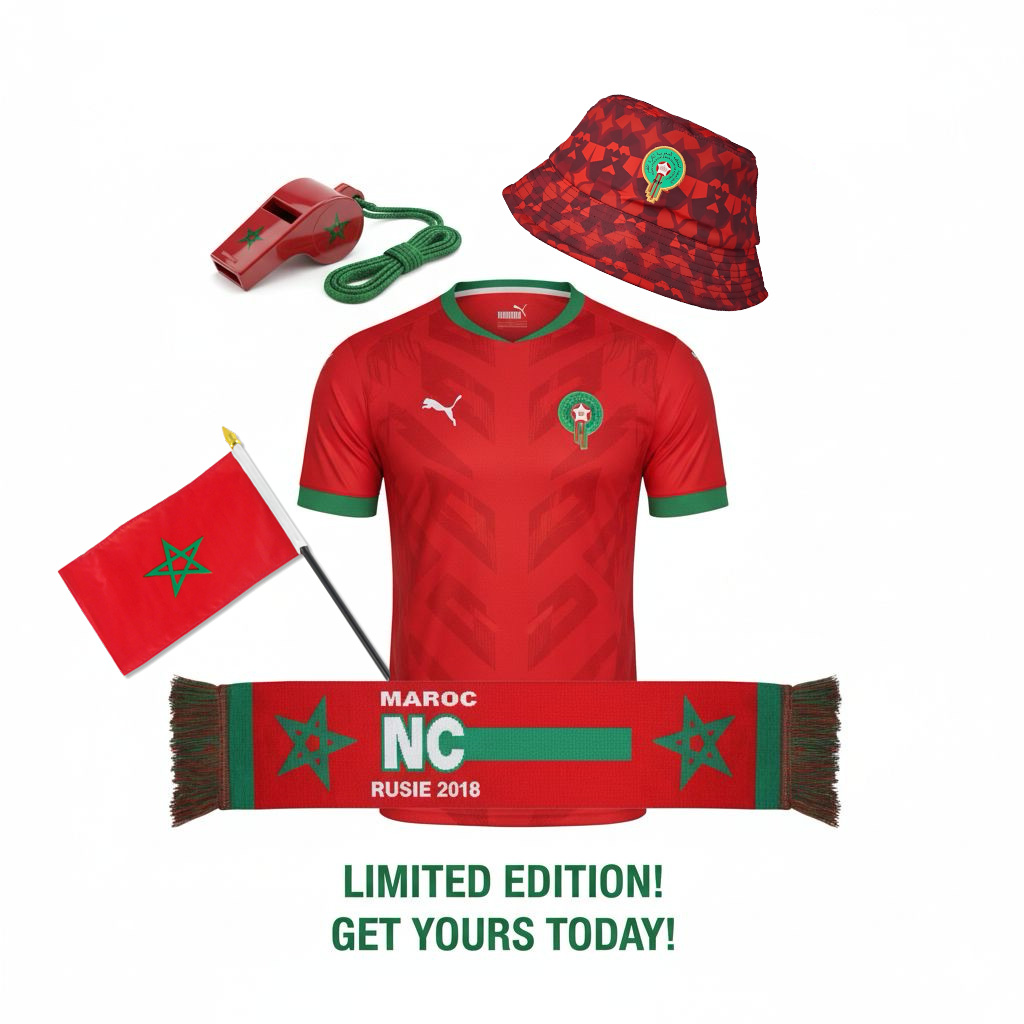
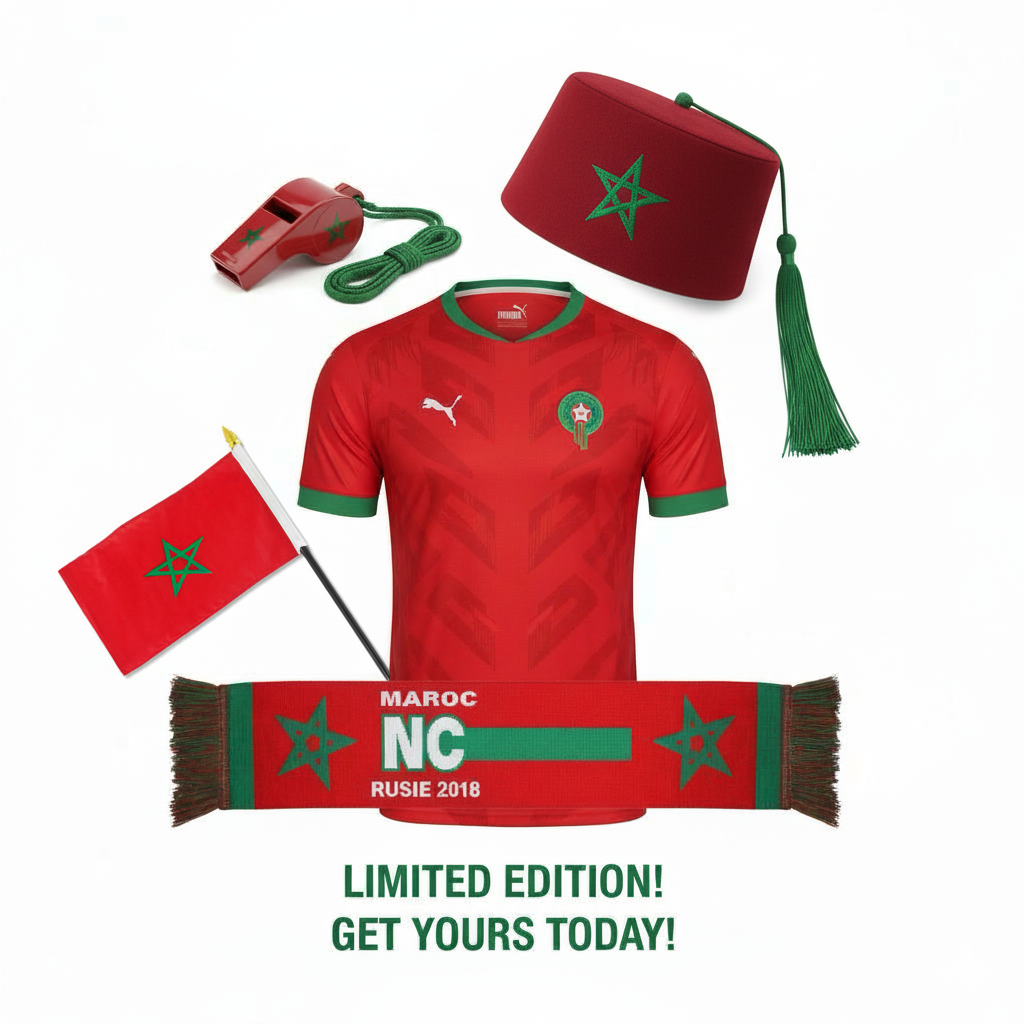
last fucking version

diff --git a/index.html b/index.html
@@ -7,7 +7,7 @@
     <meta name="description" content="Boutique officielle CAN 2025 Maroc. Maillots personnalisés, accessoires premium aux couleurs des Atlas Lions. Livraison rapide partout au Maroc." />
     <meta name="keywords" content="CAN 2025, Maroc, maillot football, supporter, personnalisation, Atlas Lions, LIONS D'ATLAS, boutique en ligne Maroc" />
     <meta name="author" content="Atlas Lions Apparel" />
-    <link rel="canonical" href="https://yael-aro.github.io/atlas-lions-apparel/" />
+    <link rel="canonical" href="https://atlasllions.com/" />
     
     <!-- Favicon -->
     <link rel="icon" type="image/x-icon" href="/favicon.ico" />
@@ -17,19 +17,29 @@
     <link rel="preconnect" href="https://fonts.gstatic.com" crossorigin>
     <link href="https://fonts.googleapis.com/css2?family=Montserrat:wght@400;500;600;700;800&family=Amiri:wght@400;700&family=Bebas+Neue&family=Oswald:wght@700&family=Roboto:wght@900&family=Permanent+Marker&family=Cairo:wght@700&family=Inter:wght@400;600&family=Lora:wght@400;700&family=Open+Sans:wght@400;600&family=Raleway:wght@400;700&family=Poppins:wght@400;600&display=swap" rel="stylesheet">
 
-    <!-- Open Graph / Facebook -->
+    <!-- Open Graph / Facebook / WhatsApp -->
     <meta property="og:type" content="website" />
-    <meta property="og:url" content="https://yael-aro.github.io/atlas-lions-apparel/" />
-    <meta property="og:title" content="Boutique CAN 2025 Maroc | Maillots Premium Atlas Lions" />
-    <meta property="og:description" content="Boutique officielle CAN 2025 Maroc. Maillots personnalisés, accessoires premium aux couleurs des Atlas Lions." />
-    <meta property="og:image" content="https://yael-aro.github.io/atlas-lions-apparel/src/assets/hero-can-2025.jpg" />
+    <meta property="og:url" content="https://atlasllions.com/" />
+    <meta property="og:site_name" content="Atlas Lions Apparel" />
+    <meta property="og:title" content="Boutique CAN 2025 Maroc 🇲🇦 | Maillots Premium Atlas Lions" />
+    <meta property="og:description" content="Boutique officielle CAN 2025 🏆 Maillots personnalisés • Accessoires premium • Livraison rapide partout au Maroc 🚚" />
+    <meta property="og:image" content="https://atlasllions.com/lienimage.jpg" />
+    <meta property="og:image:secure_url" content="https://atlasllions.com/lienimage.jpg" />
+    <meta property="og:image:width" content="1200" />
+    <meta property="og:image:height" content="630" />
+    <meta property="og:image:alt" content="Boutique CAN 2025 Maroc - Atlas Lions Apparel" />
+    <meta property="og:image:type" content="image/jpeg" />
+    <meta property="og:locale" content="fr_FR" />
 
     <!-- Twitter -->
     <meta name="twitter:card" content="summary_large_image" />
-    <meta name="twitter:url" content="https://yael-aro.github.io/atlas-lions-apparel/" />
-    <meta name="twitter:title" content="Boutique CAN 2025 Maroc | Maillots Premium Atlas Lions" />
-    <meta name="twitter:description" content="Boutique officielle CAN 2025 Maroc. Maillots personnalisés, accessoires premium." />
-    <meta name="twitter:image" content="https://yael-aro.github.io/atlas-lions-apparel/src/assets/hero-can-2025.jpg" />
+    <meta name="twitter:url" content="https://atlasllions.com/" />
+    <meta name="twitter:title" content="Boutique CAN 2025 Maroc 🇲🇦 | Maillots Premium Atlas Lions" />
+    <meta name="twitter:description" content="Boutique officielle CAN 2025 🏆 Maillots personnalisés • Accessoires premium • Livraison rapide partout au Maroc 🚚" />
+    <meta name="twitter:image" content="https://atlasllions.com/lienimage.jpg" />
+    <meta name="twitter:image:alt" content="Boutique CAN 2025 Maroc - Atlas Lions Apparel" />
+    <meta name="twitter:creator" content="@AtlasLions" />
+    <meta name="twitter:site" content="@AtlasLions" />
 
     <!-- Theme Color -->
     <meta name="theme-color" content="#C8102E" />
@@ -41,6 +51,9 @@
     <meta name="format-detection" content="telephone=no" />
     <meta name="apple-mobile-web-app-capable" content="yes" />
     <meta name="apple-mobile-web-app-status-bar-style" content="black-translucent" />
+    
+    <!-- Apple Touch Icon -->
+    <link rel="apple-touch-icon" href="/lienimage.jpg" />
   </head>
 
   <body>

diff --git a/src/data/products.ts b/src/data/products.ts
@@ -104,7 +104,7 @@ export const products: Product[] = [
   images: [
     MinatureImage,
     jerseyImage,
-    biria1Image,
+    tarbouchImage,
     flagImage,
     echapeImage,
     siffletImage,
@@ -124,7 +124,7 @@ export const products: Product[] = [
       images: [
         MinatureImage,    // ✅ Miniature rouge
         jerseyImage,      // Maillot
-        biria1Image,      // Chapeau
+        tarbouchImage,      // Chapeau
         flagImage,        // Drapeau
         echapeImage,      // Écharpe
         siffletImage,     // Sifflet
@@ -137,7 +137,7 @@ export const products: Product[] = [
       images: [
         MinatureWhiteImage,    // ⚠ Change par MinatureWhiteImage si tu l'as
         jerseywhiteImage,      // Reste pareil
-        biria1Image,      // Reste pareil
+        tarbouchImage,      // Reste pareil
         flagImage,        // Reste pareil
         echapeImage,      // Reste pareil
         siffletImage,     // Reste pareil
@@ -149,32 +149,19 @@ export const products: Product[] = [
   // ============================================
   // VÊTEMENTS
   // ============================================
-  {
+
+   {
     id: "3",
-    name: "Short Maroc Premium",
-    price: 90,
-    image: ShortImage,
-    category: "Short",
-    description: "Short officiel de l'équipe du Maroc",
-    stock: 60,
+    name: "Survêtement Maroc",
+    price: 349,
+    image: ensembleImage,
+    images: [,ensembleImage,survethoodieImage, survetpontalonImage],
+    category: "Vêtements",
+    description: "survetement officiel de l'équipe du Maroc ",
+    stock: 40,
     customizable: false,
     featured: false,
-    availableSizes: ["S", "M", "L", "XL", "XXL"], // ✅ NOUVEAU
-    hasColorVariants: true,
-    colorVariants: [
-      {
-        color: "#C8102E",
-        colorName: "Rouge",
-        image: ShortImage,
-        images: [ShortImage],
-      },
-      {
-        color: "#FFFFFF",
-        colorName: "Blanc",
-        image: shortWhiteImage,
-        images: [shortWhiteImage],
-      },
-    ],
+    availableSizes: ["S", "M", "L", "XL", "XXL"],
   },
 
   // ============================================
@@ -204,44 +191,47 @@ export const products: Product[] = [
     featured: true,
     // ❌ PAS de availableSizes
   },
+
   {
     id: "6",
-    name: "Sifflet Officiel",
-    price: 70,
-    image: siffletImage,
-    category: "Accessoires",
-    description: "Sifflet officiel des supporters",
-    stock: 0,
-    customizable: false,
-    featured: false,
-    // ❌ PAS de availableSizes
-  },
-  {
-    id: "7",
     name: "Chapeau Bob",
     price: 70,
     image: biria1Image,
     category: "Accessoires",
     description: "Chapeau Bob aux couleurs du Maroc",
-    stock: 90,
+    stock: 0,
     customizable: false,
     featured: false,
     // ❌ PAS de availableSizes
   },
-  
-  {
-    id: "8",
-    name: "Survêtement Maroc",
-    price: 349,
-    image: ensembleImage,
-    images: [,ensembleImage,survethoodieImage, survetpontalonImage],
-    category: "Vêtements",
-    description: "survetement officiel de l'équipe du Maroc ",
-    stock: 40,
+    {
+    id: "7",
+    name: "Short Maroc Premium",
+    price: 90,
+    image: ShortImage,
+    category: "Short",
+    description: "Short officiel de l'équipe du Maroc",
+    stock: 60,
     customizable: false,
     featured: false,
-    availableSizes: ["S", "M", "L", "XL", "XXL"],
+    availableSizes: ["S", "M", "L", "XL", "XXL"], // ✅ NOUVEAU
+    hasColorVariants: true,
+    colorVariants: [
+      {
+        color: "#C8102E",
+        colorName: "Rouge",
+        image: ShortImage,
+        images: [ShortImage],
+      },
+      {
+        color: "#FFFFFF",
+        colorName: "Blanc",
+        image: shortWhiteImage,
+        images: [shortWhiteImage],
+      },
+    ],
   },
+ 
   
 ];
 
